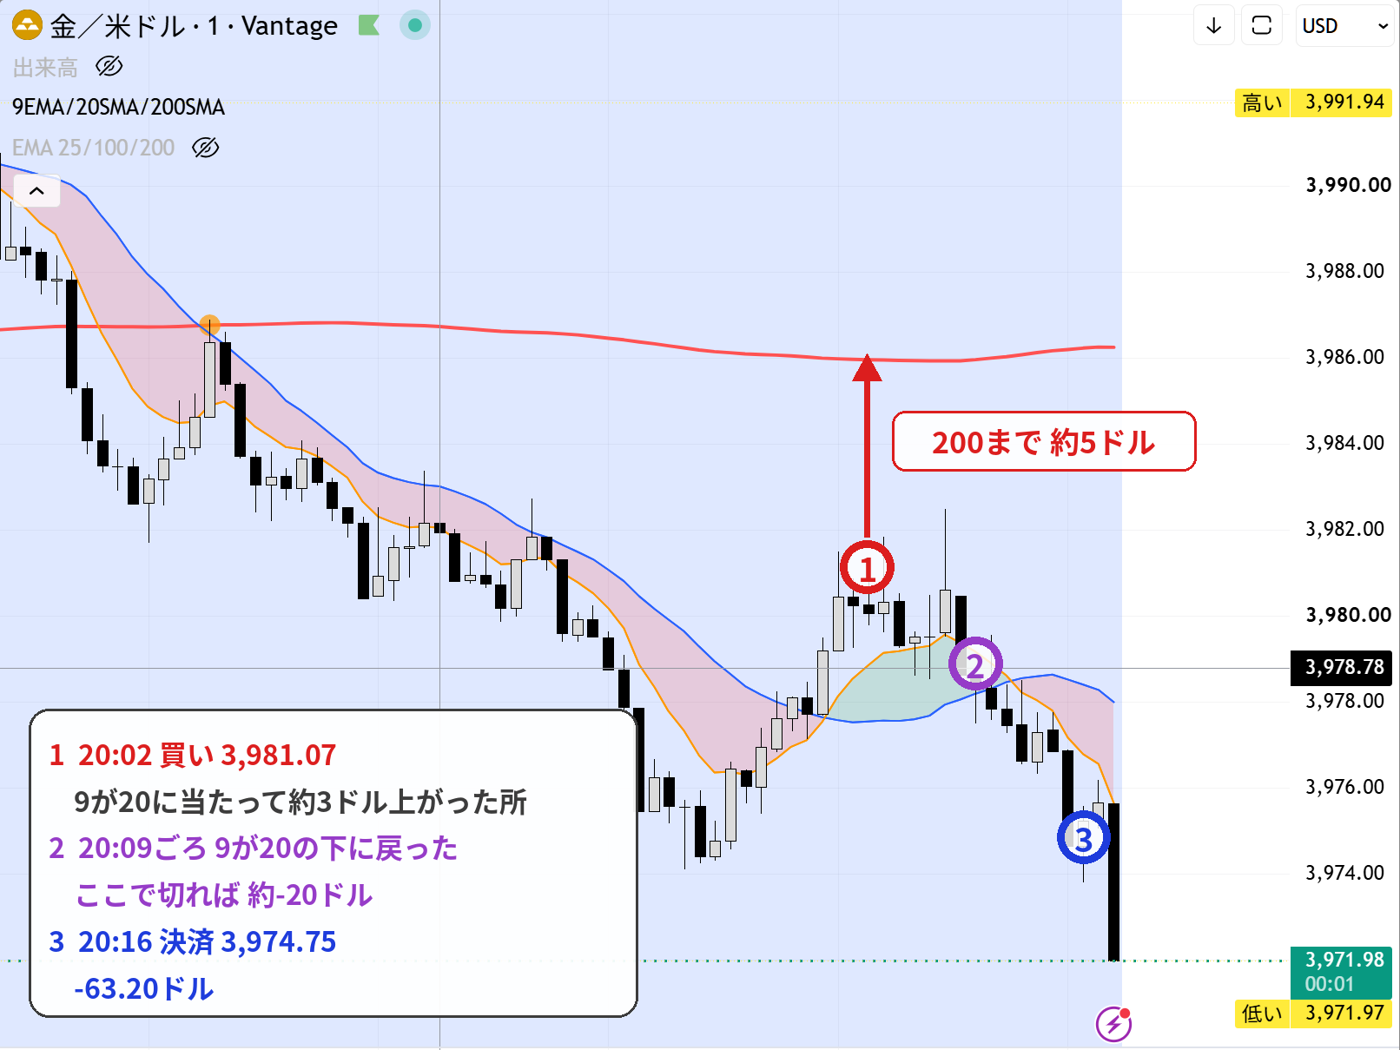
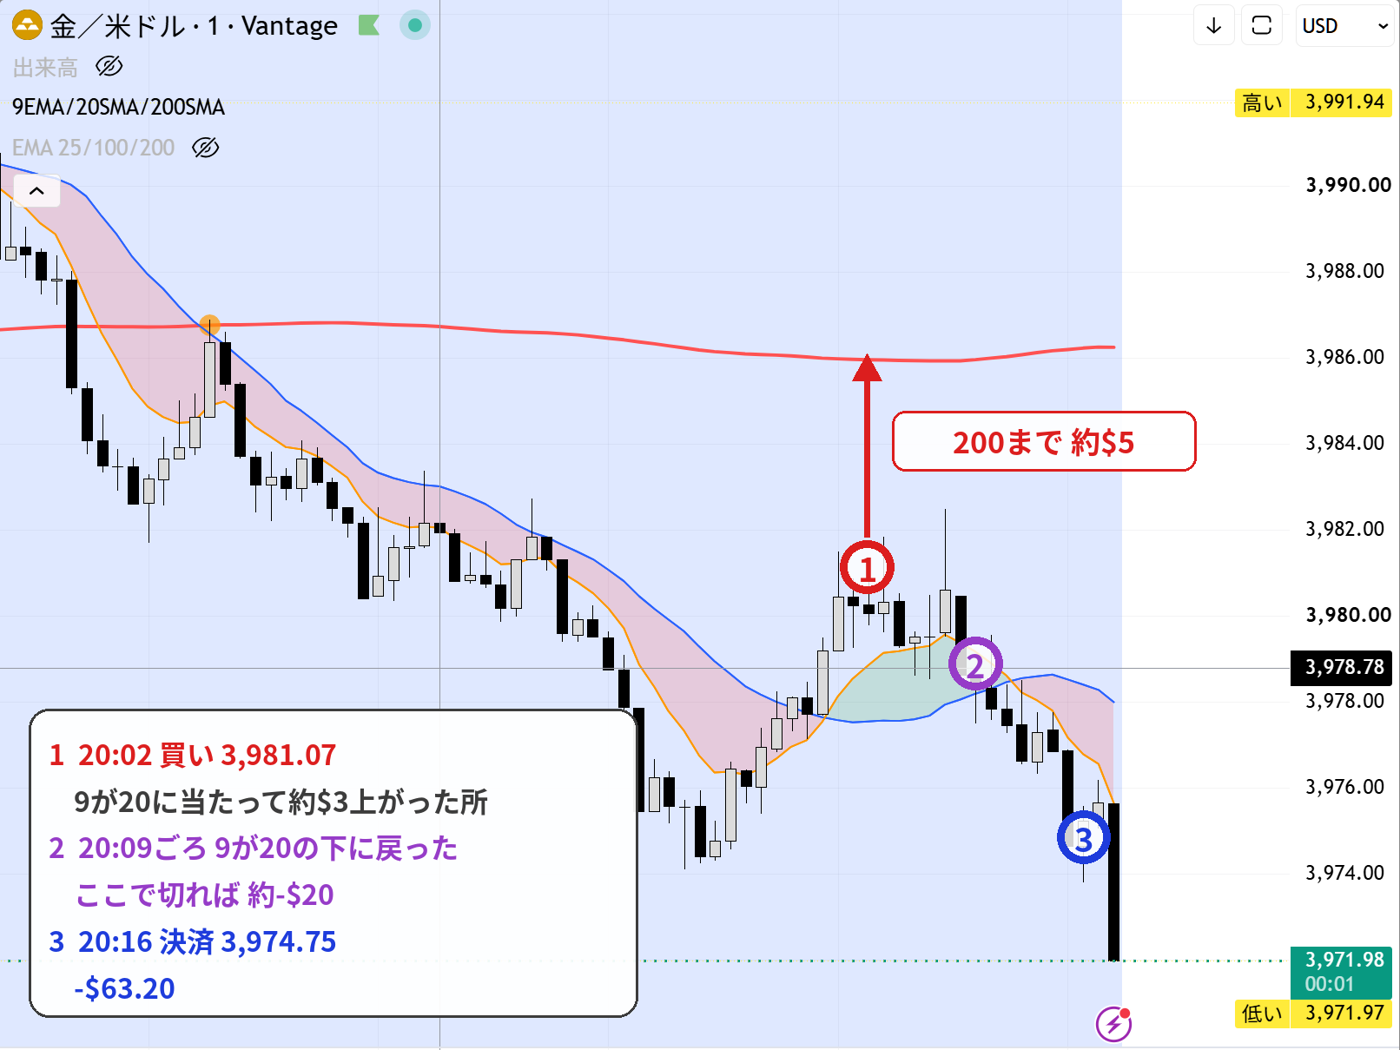
金額の表記を「ドル」から「$」に変更
Claude-Session: https://claude.ai/code/session_01HxS9YaEfLR2yPnioVsHz63

diff --git a/index.html b/index.html
@@ -163,7 +163,7 @@ body { margin: 0; background: #ffffff; }
   <section class="lx-hero" id="hero" aria-label="いまの成績">
     <div class="lx-hero-top">
       <div class="lx-hero-main">
-        <div class="lx-hero-label">累計損益（ドル）</div>
+        <div class="lx-hero-label">累計損益（$）</div>
         <div class="lx-hero-value" data-draw="val" data-fmt="signed" data-source="summary" data-row="0" data-field="net">—</div>
       </div>
       <div class="lx-hero-chip">
@@ -195,17 +195,17 @@ body { margin: 0; background: #ffffff; }
 
   <section class="lx-tiles" id="summary" aria-label="勝ちと負けの大きさ">
     <div class="lx-tile">
-      <div class="lx-tile-label">平均の勝ち（ドル）</div>
+      <div class="lx-tile-label">平均の勝ち（$）</div>
       <div class="lx-tile-value" data-draw="val" data-fmt="signed" data-source="summary" data-row="0" data-field="avg_win">—</div>
       <div class="lx-tile-sub">勝った取引1回あたり（勝ち <b data-draw="val" data-fmt="int" data-source="summary" data-row="0" data-field="wins">—</b> 回）</div>
     </div>
     <div class="lx-tile">
-      <div class="lx-tile-label">平均の負け（ドル）</div>
+      <div class="lx-tile-label">平均の負け（$）</div>
       <div class="lx-tile-value" data-draw="val" data-fmt="signed" data-source="summary" data-row="0" data-field="avg_loss">—</div>
       <div class="lx-tile-sub">負け1回を取り戻すのに、平均の勝ちが約 <b data-draw="val" data-fmt="one" data-source="summary" data-row="0" data-field="loss_in_wins">—</b> 回ぶん必要</div>
     </div>
     <div class="lx-tile">
-      <div class="lx-tile-label">最大の負け（ドル）</div>
+      <div class="lx-tile-label">最大の負け（$）</div>
       <div class="lx-tile-value" data-draw="val" data-fmt="signed" data-source="summary" data-row="0" data-field="worst">—</div>
       <div class="lx-tile-sub">いちばん大きく負けた1回（負け <b data-draw="val" data-fmt="int" data-source="summary" data-row="0" data-field="losses">—</b> 回）</div>
     </div>
@@ -227,7 +227,7 @@ body { margin: 0; background: #ffffff; }
         <button type="button" class="lx-nav" data-nav="1" aria-label="次の月">›</button>
       </div>
     </div>
-    <p class="lx-sub">その日に決済した取引の合計（ドル）です。緑がプラス、赤がマイナスです。画面がせまいときは、小数点以下を丸めて表示します。</p>
+    <p class="lx-sub">その日に決済した取引の合計（$）です。緑がプラス、赤がマイナスです。画面がせまいときは、小数点以下を丸めて表示します。</p>
     <div class="lx-cal-total" data-draw="cal_total" data-source="monthly"></div>
     <div class="lx-cal-week" aria-hidden="true"><span>月</span><span>火</span><span>水</span><span>木</span><span>金</span><span>土</span><span>日</span></div>
     <div class="lx-cal-grid dash-skeleton" id="calendar-grid" data-draw="cal_grid" data-source="daily"></div>
@@ -292,15 +292,15 @@ body { margin: 0; background: #ffffff; }
 
   <section class="lx-card" id="lotref-card">
     <h2 class="lx-h">ロット別の早見表</h2>
-    <p class="lx-sub">金が1ドル・5ドル・10ドル動いたとき、損益がいくらになるかの表です（動いた幅 × ロット × 100）。逆に動くと、同じ額だけ負けます。円は、1ドル=157円で計算した目安です。</p>
+    <p class="lx-sub">金が$1・$5・$10動いたとき、損益がいくらになるかの表です（動いた幅 × ロット × 100）。逆に動くと、同じ額だけ負けます。円は、$1=157円で計算した目安です。</p>
     <div class="lx-scroll">
       <table class="lx-table lx-table-ref">
         <thead>
           <tr>
             <th>ロット</th>
-            <th>1ドル</th>
-            <th>5ドル</th>
-            <th>10ドル</th>
+            <th>$1</th>
+            <th>$5</th>
+            <th>$10</th>
           </tr>
         </thead>
         <tbody data-draw="lotref_rows"></tbody>
@@ -310,7 +310,7 @@ body { margin: 0; background: #ffffff; }
 
   <section class="lx-card" id="trades-card">
     <h2 class="lx-h">取引一覧</h2>
-    <p class="lx-sub">新しい順です。値幅は、有利な方向に動いた幅がプラスになります。円は、1ドル=157円で計算した目安です。</p>
+    <p class="lx-sub">新しい順です。値幅は、有利な方向に動いた幅がプラスになります。円は、$1=157円で計算した目安です。</p>
     <div class="lx-scroll">
       <table class="lx-table lx-table-trades" data-source="trades" data-row-key="ticket">
         <thead>
@@ -581,6 +581,7 @@ const md = d3.utcFormat('%-m/%-d');
 const toDay = (s) => md(new Date(s + 'T00:00:00Z'));
 const FMT = { money, signed, pct, int: whole, one, lots: lotf, text: String, day: toDay };
 const H = 240;
+const usd = (v) => (v > 0 ? '+' : v < 0 ? '−' : '') + '$' + money(Math.abs(v));
 
 // 数字1つぶん
 dash.draw('val', (el) => {
@@ -870,7 +871,7 @@ dash.draw('cal_total', (el) => {
   const head = document.createElement('span');
   head.textContent = '月の合計 ';
   const total = document.createElement('b');
-  total.textContent = signed(r.profit) + ' ドル';
+  total.textContent = usd(r.profit);
   if (r.profit > 0) total.className = 'lx-pos';
   else if (r.profit < 0) total.className = 'lx-neg';
   const tail = document.createElement('span');
@@ -942,7 +943,7 @@ dash.draw('side_rows', statRows('by_side', 'side', String));
 dash.draw('lot_rows', statRows('by_lot', 'lots', lotf));
 
 // 取引一覧（新しい順）
-const JPY_RATE = 157; // 1ドルあたりの円（目安）。ページの説明文の数字もあわせて直す
+const JPY_RATE = 157; // $1あたりの円（目安）。ページの説明文の数字もあわせて直す
 const yen = d3.format('+,.0f');
 dash.draw('rows', (tbody) => {
   const g = dash.data('trades');
@@ -987,12 +988,12 @@ dash.draw('lotref_rows', (tbody) => {
     first.textContent = lotf(lots);
     tr.append(first);
     for (const move of [1, 5, 10]) {
-      const usd = Math.round(move * lots * 100 * 100) / 100;
+      const amt = Math.round(move * lots * 100 * 100) / 100;
       const td = document.createElement('td');
-      td.textContent = whole(usd) + 'ドル';
+      td.textContent = '$' + whole(amt);
       const sub = document.createElement('span');
       sub.className = 'lx-subline';
-      sub.textContent = whole(Math.round(usd * JPY_RATE)) + '円';
+      sub.textContent = whole(Math.round(amt * JPY_RATE)) + '円';
       td.append(sub);
       tr.append(td);
     }
@@ -1042,7 +1043,7 @@ dash.draw('review_list', (el) => {
     if (t) {
       const meta = document.createElement('div');
       meta.className = 'lx-note-meta';
-      meta.textContent = toDay(t.date) + ' ' + t.time + ' 決済（MT5の時刻） ・ ' + t.side + ' ' + lotf(t.lots) + 'ロット ・ 損益 ' + signed(t.profit) + 'ドル';
+      meta.textContent = toDay(t.date) + ' ' + t.time + ' 決済（MT5の時刻） ・ ' + t.side + ' ' + lotf(t.lots) + 'ロット ・ 損益 ' + usd(t.profit);
       card.append(meta);
     }
     if (n.image) {
